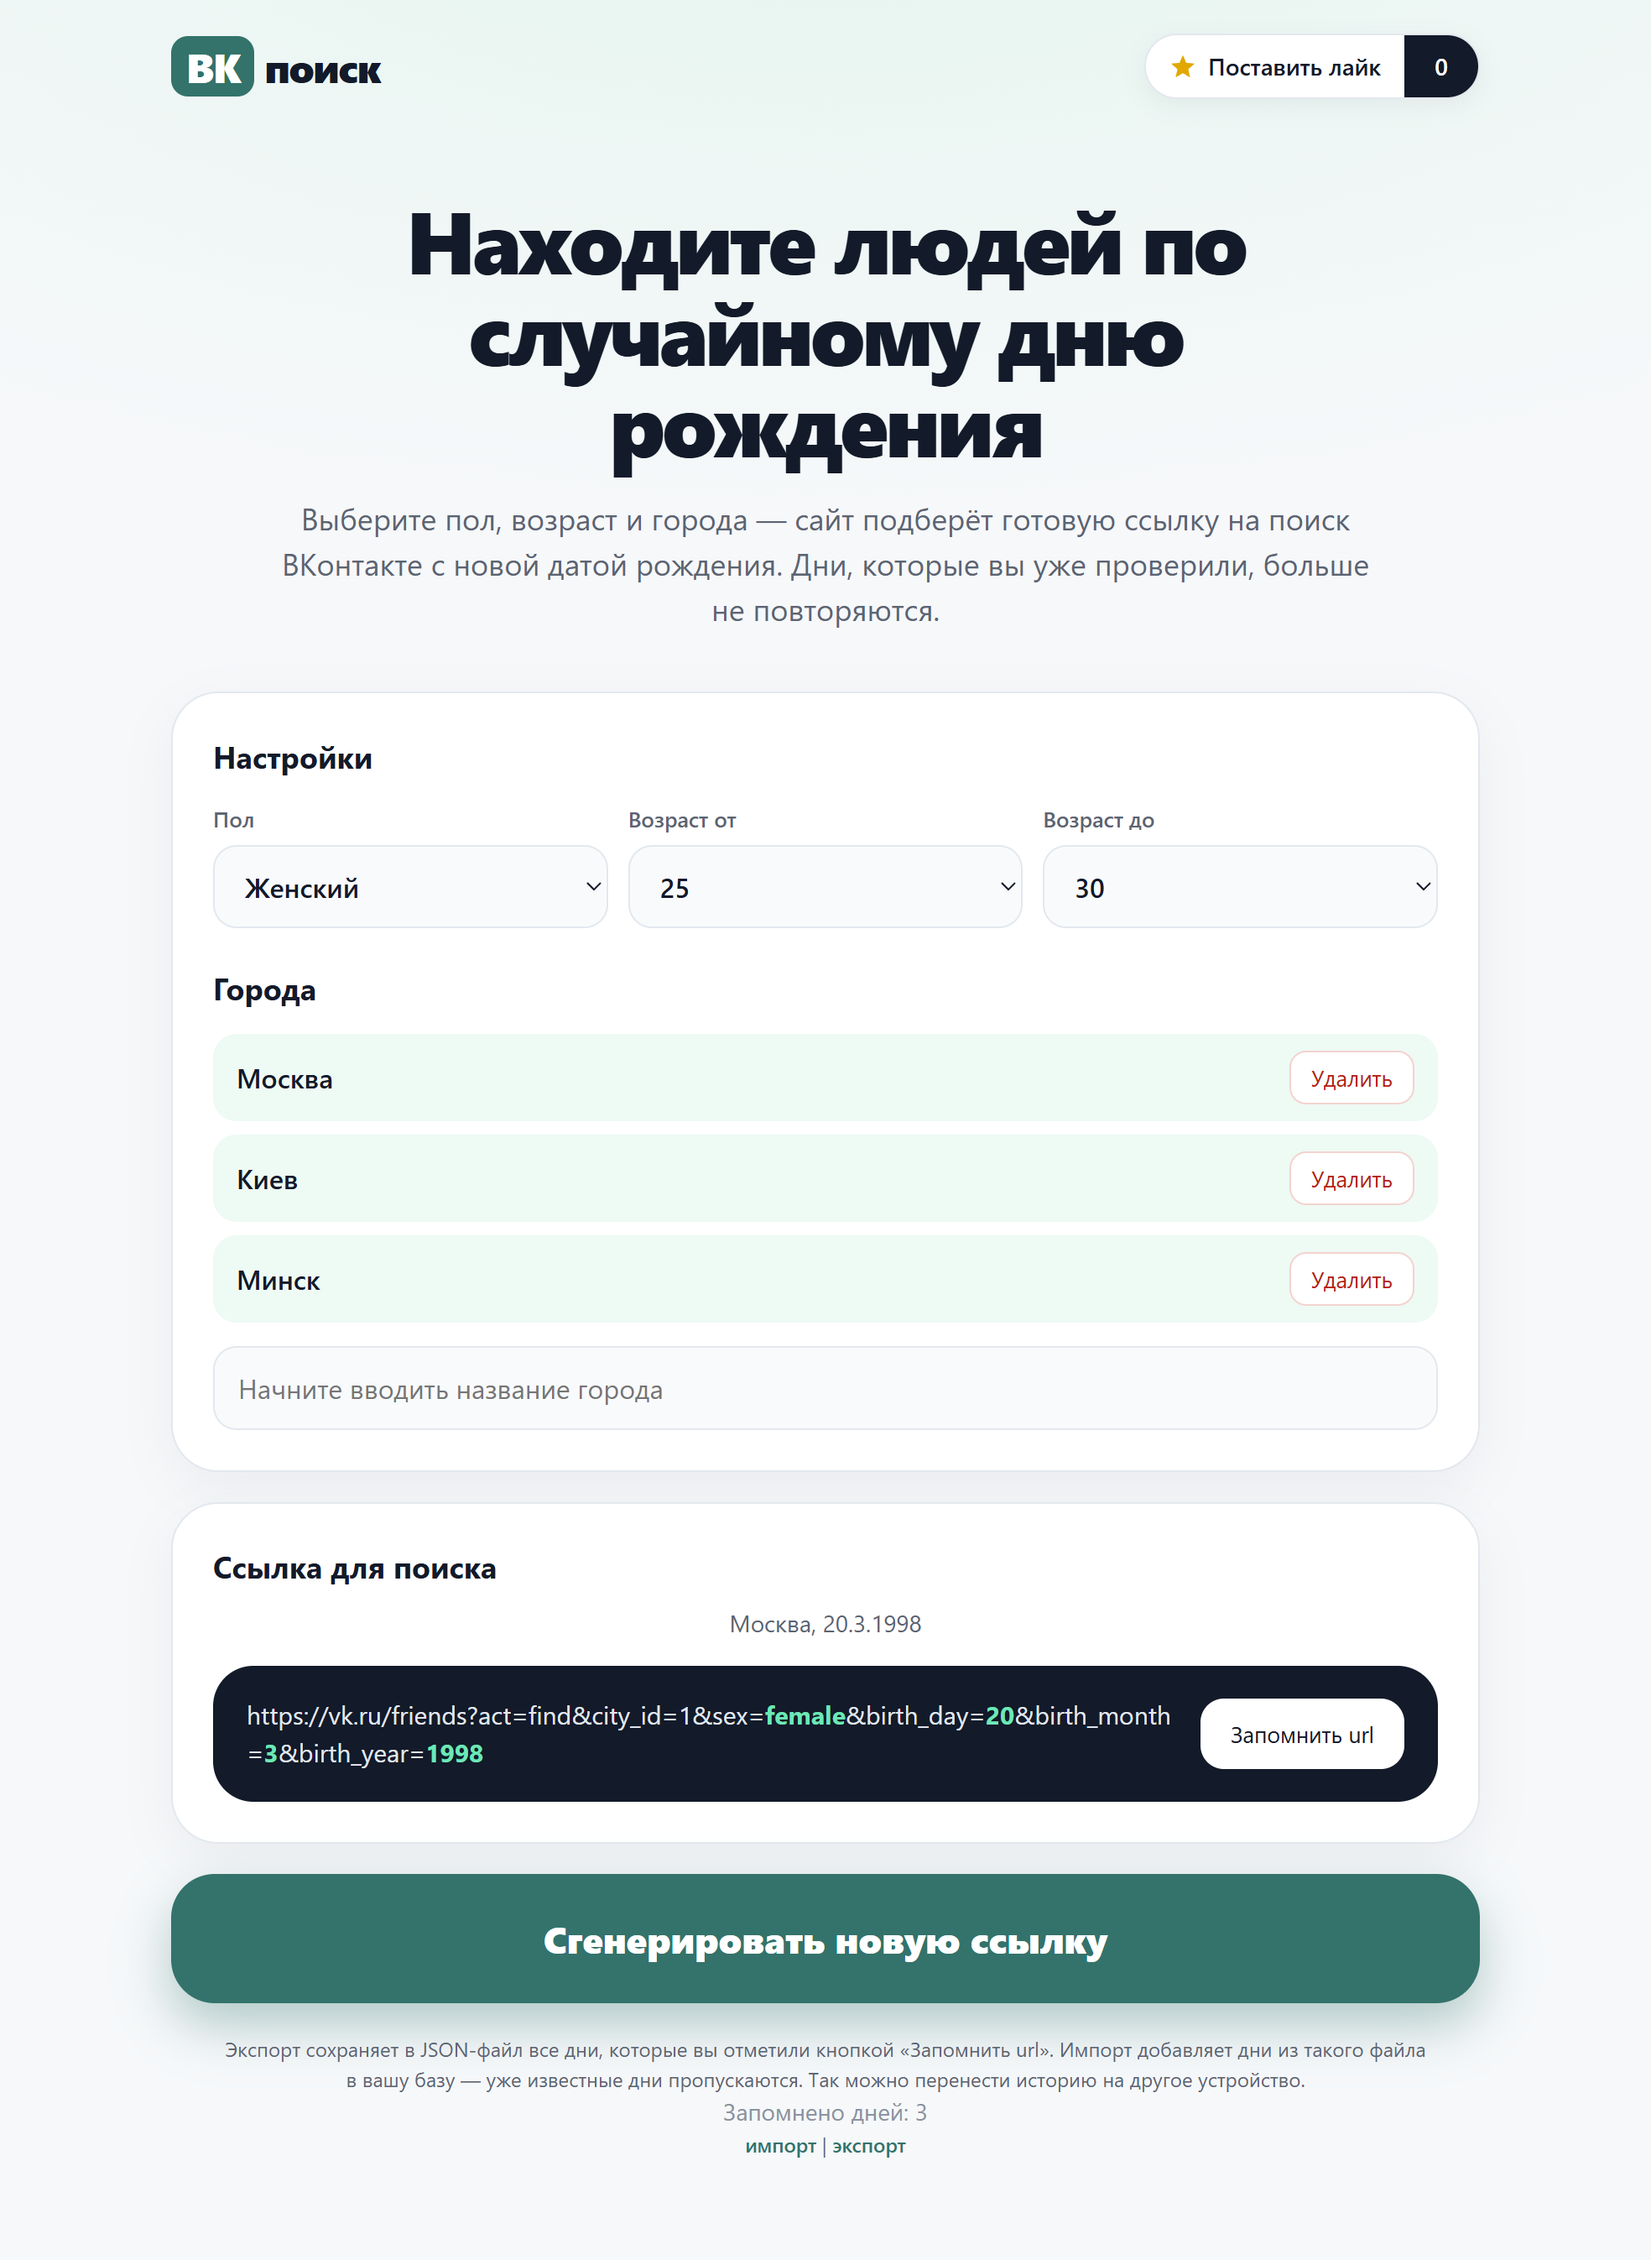
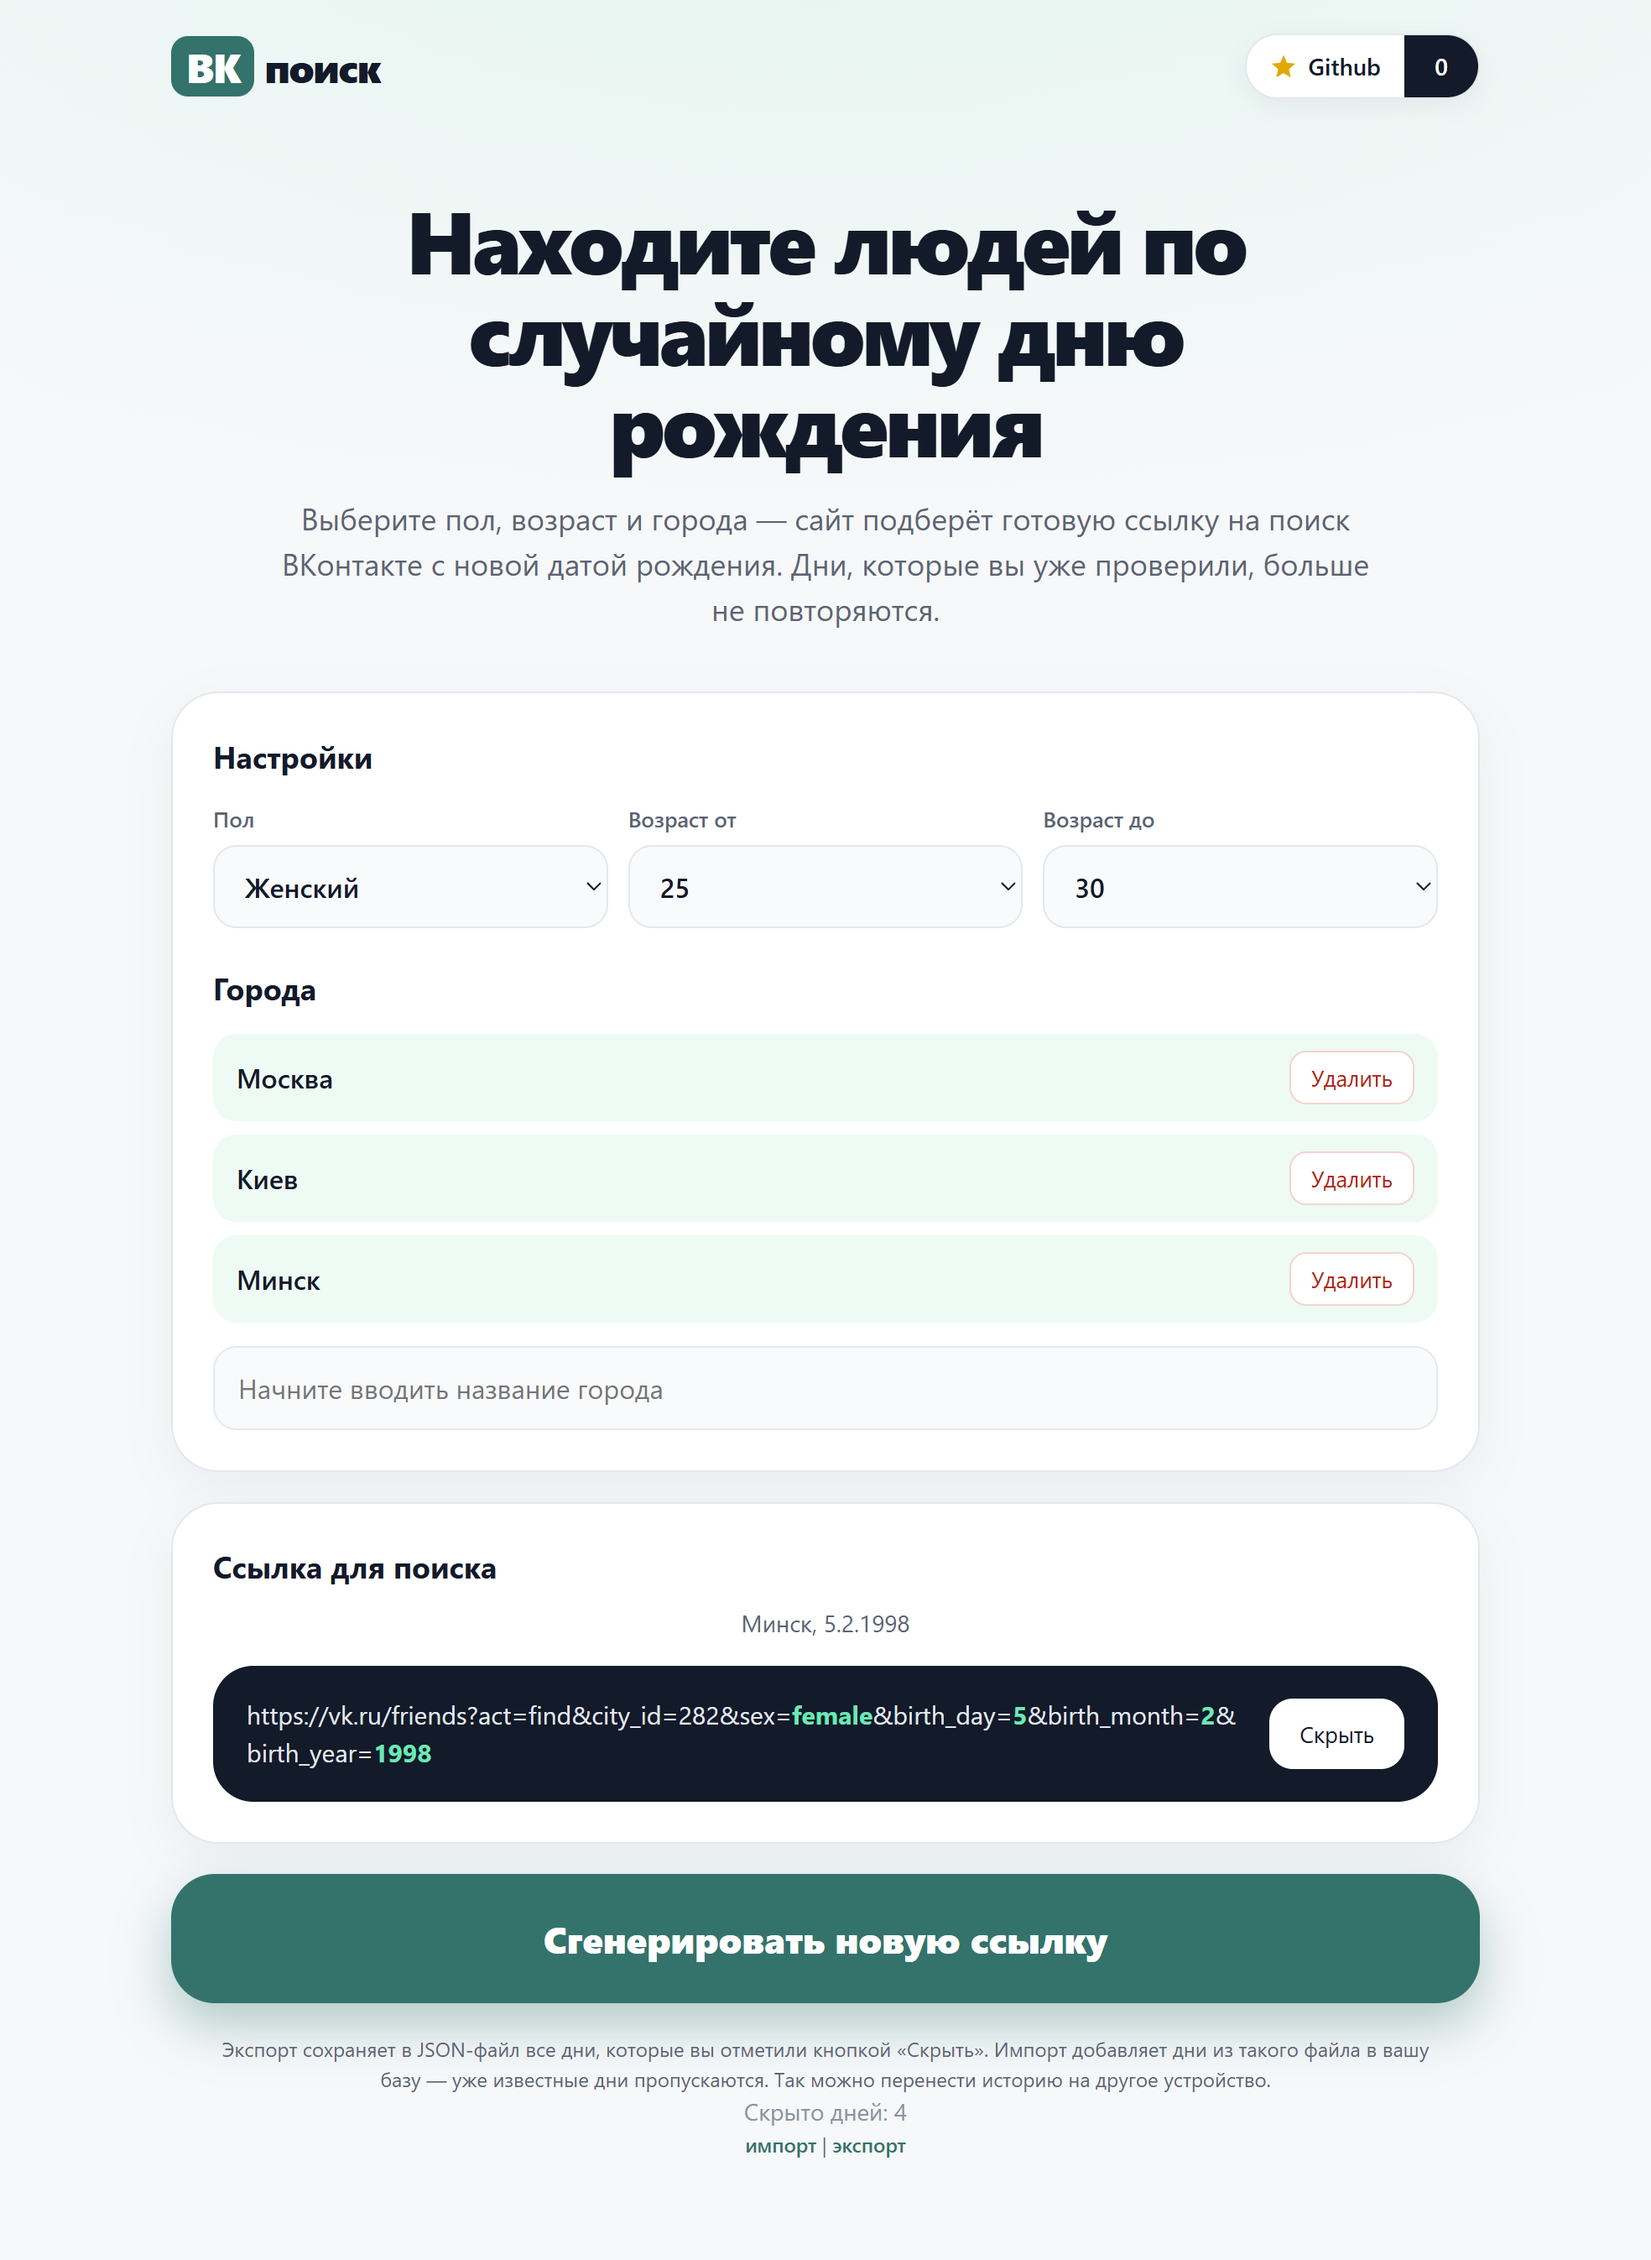
update hide btn text and readme

diff --git a/index.html b/index.html
@@ -26,7 +26,7 @@
         <div class="logo"><b>ВК</b>поиск</div>
         <a class="star" id="star" target="_blank" rel="noopener" href="#">
             <span><svg width="16" height="16" viewBox="0 0 24 24"><path
-                    d="M12 2l3 6.9 7.5.7-5.7 5 1.7 7.4L12 18.1 5.5 22l1.7-7.4-5.7-5 7.5-.7z"/></svg>Поставить лайк</span><span
+                    d="M12 2l3 6.9 7.5.7-5.7 5 1.7 7.4L12 18.1 5.5 22l1.7-7.4-5.7-5 7.5-.7z"/></svg>Github</span><span
                 id="stars">…</span>
         </a>
     </header>
@@ -62,14 +62,14 @@
         <div class="link">
             <div class="ph" id="ph">Ссылка появится после генерации</div>
             <a id="url" target="_blank" rel="noopener" hidden></a>
-            <button class="btn" id="rem" disabled>Запомнить день</button>
+            <button class="btn" id="rem" disabled>Скрыть</button>
         </div>
     </section>
 
     <button class="gen" id="gen">Сгенерировать новую ссылку</button>
 
     <div class="export-import">
-        <p>Экспорт сохраняет в JSON-файл все дни, которые вы отметили кнопкой «Запомнить url». Импорт добавляет дни из
+        <p>Экспорт сохраняет в JSON-файл все дни, которые вы отметили кнопкой «Скрыть». Импорт добавляет дни из
             такого файла в вашу базу — уже известные дни пропускаются.
             Так можно перенести историю на другое устройство.
         </p>

diff --git a/app.js b/app.js
@@ -164,7 +164,7 @@ function renderLink() {
         a.hidden = true;
         $('ph').hidden = false;
         $('rem').disabled = true;
-        $('rem').textContent = 'Запомнить url';
+        $('rem').textContent = 'Скрыть';
         return
     }
     const u = `https://vk.ru/friends?act=find&city_id=${cur.cityId}&sex=${cur.sex}&birth_day=${cur.d}&birth_month=${cur.m}&birth_year=${cur.y}`;
@@ -174,11 +174,11 @@ function renderLink() {
     $('ph').hidden = true;
     const done = seen.has(keyOf(cur));
     $('rem').disabled = done;
-    $('rem').textContent = done ? 'Запомнено ✓' : 'Запомнить url';
+    $('rem').textContent = done ? 'Скрыто ✓' : 'Скрыть';
 }
 
 function updateCount() {
-    $('cnt').textContent = `Запомнено дней: ${seen.size}`
+    $('cnt').textContent = `Скрыто дней: ${seen.size}`
 }
 
 $('rem').onclick = async () => {

diff --git a/README.md b/README.md
@@ -7,8 +7,11 @@
 
 ## Принцип работы
 Официальная форма поиска ВКонтакте генерирует ссылку следующего вида:  
-`https://vk.ru/friends?act=find&city_id=1&sex=female&birth_day=28&birth_month=8&birth_year=2003`  
-Приложение ВК поиск просто генерирует такую же ссылку, перейдя по которой будет запущен поиск ВКонтакте так же как если бы вы ввели эти данные вручную в форму.
+```
+https://vk.ru/friends?act=find&city_id=1&sex=female&birth_day=28&birth_month=8&birth_year=2003
+```  
+Приложение ВК поиск просто генерирует такую же ссылку, перейдя по которой будет запущен поиск ВКонтакте так же как если бы вы ввели эти данные вручную в форму.  
+ВК поиск избавит вас от самостоятельного выбора случайного дня, а так же сохранит дни которые вы уже смотрели.  
 
 ## Запуск
 Проще всего открыть в браузере по ссылке https://vk.alex.md.  
